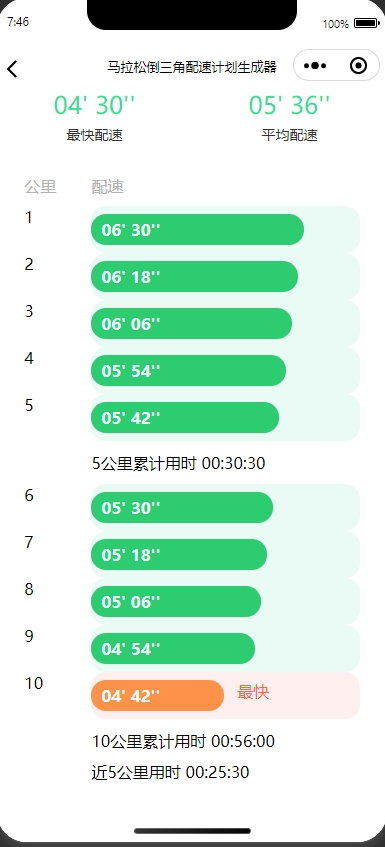
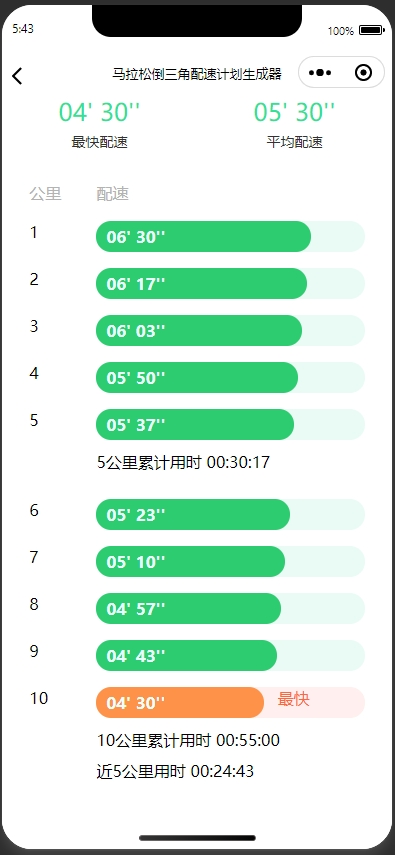
finish

diff --git a/pages/paceChart/paceChart.js b/pages/paceChart/paceChart.js
@@ -24,23 +24,21 @@ Page({
         // 检查这个值是否如预期
     },
     /**
-     * 
+     * 接收前一个页面传递过来的参数进行计算
      * @param {*} totalDistance 
      * @param {*} initialPace 
      * @param {*} sprintPace 
      */
     calculatePaceData(totalDistance, initialPace, sprintPace) {
+        //将接收到的前一个页面传递过来的参数传给专门计算的方法
         const paceData = this.calculatePace(initialPace, sprintPace, totalDistance);
-        console.log(paceData);
         if (!paceData || paceData.length === 0) {
             console.error('Pace data is empty or undefined');
             return; // 退出方法，避免进一步的错误
         }
-        // const totalTimeSeconds = paceData[paceData.length - 1].pace;
         const totalTimeSeconds = paceData.reduce((acc, { pace }) => acc + pace, 0);
         const timeDescription = this.determineDistanceType(totalDistance);
-
-        console.log(common.formatTimeHour(Math.round(paceData[0].nearFiveKmTime)));
+        // 为页面变量赋值
         this.setData({
             timeDescription: timeDescription,
             totalTime: common.formatTime(Math.ceil(totalTimeSeconds)),// 向上取整
@@ -49,10 +47,12 @@ Page({
             paceData: paceData.map(pace => ({
                 km: pace.km,
                 pace: common.convertTimeFormat(common.formatTime(Math.round(pace.pace))),//四舍五入
+                currentKmTime: common.formatTimeHour(Math.ceil(pace.currentKmTime)),
                 isFast: pace.isFast,
+                isLessThanOneKm: pace.isLessThanOneKm,
                 cumulativeTime: common.formatTimeHour(Math.round(pace.cumulativeTime)),
                 nearFiveKmTime: common.formatTimeHour(Math.round(pace.nearFiveKmTime)),
-                flexWidthVal: "flex: " + pace.flexWidthVal
+                flexWidthVal: pace.flexWidthVal
             })),
         });
     },
@@ -67,58 +67,86 @@ Page({
         if (totalDistance <= 0) {
             return []; // 返回一个空数组
         }
-        // 计算每公里配速递减的值
-        const decreasePerKm = (initialPace - sprintPace) / totalDistance;
+        // 计算每公里配速递减或递增的值
+        const decreasePerKm = (initialPace - sprintPace) / (totalDistance - 1);
         // 初始化每公里配速数组
         let paceData = [];
-
-        // 计算每公里的配速
+        // 当前公里配速
         let currentPace = initialPace;
+        // 当前公里数
         let currentDistance = 0;
         // 初始化累计用时
         let cumulativeTime = 0;
-        let flexWidthVal = 0.8;//设定初始宽度
+        //设定样式初始宽度
+        let flexWidthVal = 0.8;
+        // 是否不足一公里
+        let isLessThanOneKm = false;
+        // 是否最快
+        let isFast = false;
 
         while (currentDistance < totalDistance) {
-            let nextDistance = currentDistance + 1; // 下一个目标公里数
-            const paceForThisSegment = currentPace; // 当前段的配速
+            // 下一个目标公里数
+            let nextDistance = currentDistance + 1;
+            // 当前段的配速 --- 这个变量有用 别乱改
+            const paceForThisSegment = currentPace;
 
             // 如果达到或超过总距离，调整配速和距离
             if (nextDistance >= totalDistance) {
+                currentPace = sprintPace;// 计算下一段的配速
                 nextDistance = totalDistance;
-                console.log("currentDistance: " + currentDistance);
-                console.log("nextDistance: " + nextDistance);
                 //更新累计用时 右侧为不足一公里用时
                 cumulativeTime += currentPace * (nextDistance - currentDistance);
-                console.log(decreasePerKm);
+                if (nextDistance - currentDistance < 1) {
+                    isLessThanOneKm = true;
+                }
+
             } else {
                 cumulativeTime += currentPace;//更新累计用时
+                currentPace -= decreasePerKm;// 计算下一段的配速
             }
-            currentPace -= decreasePerKm;// 计算下一段的配速
-            flexWidthVal = 0.8 * (currentPace / initialPace);
 
+            // 这里的逻辑应该是 不管它是正还是负都用剩余的宽度做加减计算
+            if (decreasePerKm > 0) {
+                flexWidthVal -= 0.17 / Math.ceil(totalDistance);
+            } else {
+                flexWidthVal += 0.17 / Math.ceil(totalDistance);
 
-            // console.log(common.isInteger(nextDistance));
-            // console.log(nextDistance + " : " + currentPace + " : " + sprintPace + " : " + decreasePerKm + " : " + (sprintPace - decreasePerKm));
-            // console.log(sprintPace);
-            // console.log(decreasePerKm);
+            }
             // 将当前段的配速和距离添加到数组中
             paceData.push({
                 km: nextDistance,
                 pace: paceForThisSegment,
-                // isFast: currentPace <= sprintPace, // 如果当前配速等于冲刺配速，则为最快
-                isFast: common.isInteger(nextDistance) ? sprintPace > currentPace - decreasePerKm : false, // 如果当前配速等于冲刺配速，则为最快
+                currentKmTime: isLessThanOneKm ?
+                    currentPace * (nextDistance - currentDistance) :
+                    paceForThisSegment,//当前段距离用时
+                isLessThanOneKm: isLessThanOneKm,
+                isFast: isFast,
                 cumulativeTime: cumulativeTime,
                 flexWidthVal: flexWidthVal
             });
 
+
+            // 当最后一公里小于1时 找到最快配速并重新更新数据
+            if (nextDistance >= totalDistance) {
+                const minPaceIndex = paceData.reduce((minIndex, current, currentIndex, array) => {
+                    // 只有当 current.isLessThanOneKm 不为 true 时才进行比较
+                    if (!current.isLessThanOneKm && current.pace < array[minIndex].pace) {
+                        return currentIndex;
+                    }
+                    return minIndex;
+                }, 0);
+
+                // 确保找到的下标对应的元素满足 isLessThanOneKm != true
+                if (!paceData[minPaceIndex].isLessThanOneKm) {
+                    paceData[minPaceIndex].isFast = true;
+                }
+            }
 
             // 如果当前距离大于5公里，计算最近五公里的用时
             if (nextDistance > 5) {
                 const nearFiveKmPaces = paceData.slice(-5).map(p => p.pace);
                 const nearFiveKmTime = nearFiveKmPaces.reduce((acc, pace) => acc + pace, 0);
                 paceData[paceData.length - 1].nearFiveKmTime = nearFiveKmTime;
-                console.log("nearFiveKmTime: " + nearFiveKmTime);
             }
 
             // 更新当前距离
@@ -128,7 +156,7 @@ Page({
     },
 
     /**
-     * 
+     * 为头部距离赋值
      * @param {*} distance 
      */
     determineDistanceType(distance) {

diff --git a/utils/distancePicker.js b/utils/distancePicker.js
@@ -1,25 +1,24 @@
 // 生成距离选择值
 function generateDistanceOptions() {
-  const distanceOptions = [];
-  for (let i = 0; i < 43; i++) {
-    i == 0 ? 
-    distanceOptions.push(0.8) : // 加上800米的距离
-    distanceOptions.push(i);
-    switch (i) {
-      case 1:
-        distanceOptions.push(1.5);
-        break;
-      case 21:
-        distanceOptions.push(21.0975);// 加上半程马拉松距离
-        break;
-      case 42:
-        distanceOptions.push(42.195); // 加上马拉松距离
-        break;
+    const distanceOptions = [];
+    for (let i = 1; i < 43; i++) {
+        if (i == 1) {
+            distanceOptions.push(1.5);
+            continue;
+        }
+        distanceOptions.push(i);
+        switch (i) {
+            case 21:
+                distanceOptions.push(21.0975);// 加上半程马拉松距离
+                break;
+            case 42:
+                distanceOptions.push(42.195); // 加上马拉松距离
+                break;
+        }
     }
-  }
-  return distanceOptions;
+    return distanceOptions;
 }
 
 module.exports = {
-  generateDistanceOptions
+    generateDistanceOptions
 };

diff --git a/README.md b/README.md
@@ -32,10 +32,42 @@
 - 工具规范：使用统一jar包避免出现内容冲突。
 - 代码整洁：可读性、维护性高。
 
-#### 包的作用
+#### 包的结构
 
-| 包              | 作用                          |
-| :-------------- | ----------------------------- |
++- marathonInvertedTriangle -- 项目根目录，通常以项目名称命名。
+|   +- .eslintrc.js -- ESLint 配置文件，用于定义代码的 linting 规则，确保代码风格一致。
+|   +- .git -- Git 版本控制目录，包含项目的版本控制信息。
+|   +- .vscode -- Visual Studio Code 配置目录，包含编辑器的设置文件。
+|   |   +- settings.json -- Visual Studio Code 的项目特定设置文件，用于配置编辑器的行为。
+|   +- app.js -- 小程序的全局逻辑文件，包含小程序的生命周期函数和全局数据。
+|   +- app.json -- 小程序的全局配置文件，定义了页面路径、窗口表现、网络超时时间等。
+|   +- app.wxss -- 小程序的全局样式文件，定义了全局的 CSS 样式。
+|   +- Images -- 存放图片资源的目录，用于存储小程序中使用的图片文件。
+|   +- pages -- 存放小程序页面的目录，每个页面包含一个独立的文件夹。
+|   |   +- index -- 首页的页面文件。
+|   |   |   +- index.js -- 首页的逻辑文件，包含页面的生命周期函数和数据。
+|   |   |   +- index.json -- 首页的配置文件，定义了页面的路径、导航栏标题等。
+|   |   |   +- index.wxml -- 首页的结构文件，定义了页面的布局和结构。
+|   |   |   +- index.wxss -- 首页的样式文件，定义了页面的 CSS 样式。
+|   |   +- logs -- 日志页面的文件。
+|   |   |   +- logs.js -- 日志页面的逻辑文件。
+|   |   |   +- logs.json -- 日志页面的配置文件。
+|   |   |   +- logs.wxml -- 日志页面的结构文件。
+|   |   |   +- logs.wxss -- 日志页面的样式文件。
+|   |   +- paceChart -- 配速图表页面的文件。
+|   |   |   +- paceChart.js -- 配速图表页面的逻辑文件。
+|   |   |   +- paceChart.json -- 配速图表页面的配置文件。
+|   |   |   +- paceChart.wxml -- 配速图表页面的结构文件。
+|   |   |   +- paceChart.wxss -- 配速图表页面的样式文件。
+|   +- project.config.json -- 小程序项目的配置文件，包含项目的基本信息和开发工具的配置。
+|   +- project.private.config.json -- 小程序项目的私有配置文件，包含一些敏感信息，如云开发配置等。
+|   +- README.md -- 项目的说明文件，通常包含项目介绍、使用方法等信息。
+|   +- sitemap.json -- 小程序的sitemap配置文件，用于定义页面的访问规则和搜索引擎抓取规则。
+|   +- utils -- 存放工具函数的目录，包含一些通用的辅助函数。
+|   |   +- common.js -- 通用工具函数，如时间格式化、数据转换等。
+|   |   +- distancePicker.js -- 距离选择器的工具函数。
+|   |   +- timePicker.js -- 时间选择器的工具函数。
+|   |   +- util.js -- 其他通用工具函数。
 
 
 #### 项目运行
